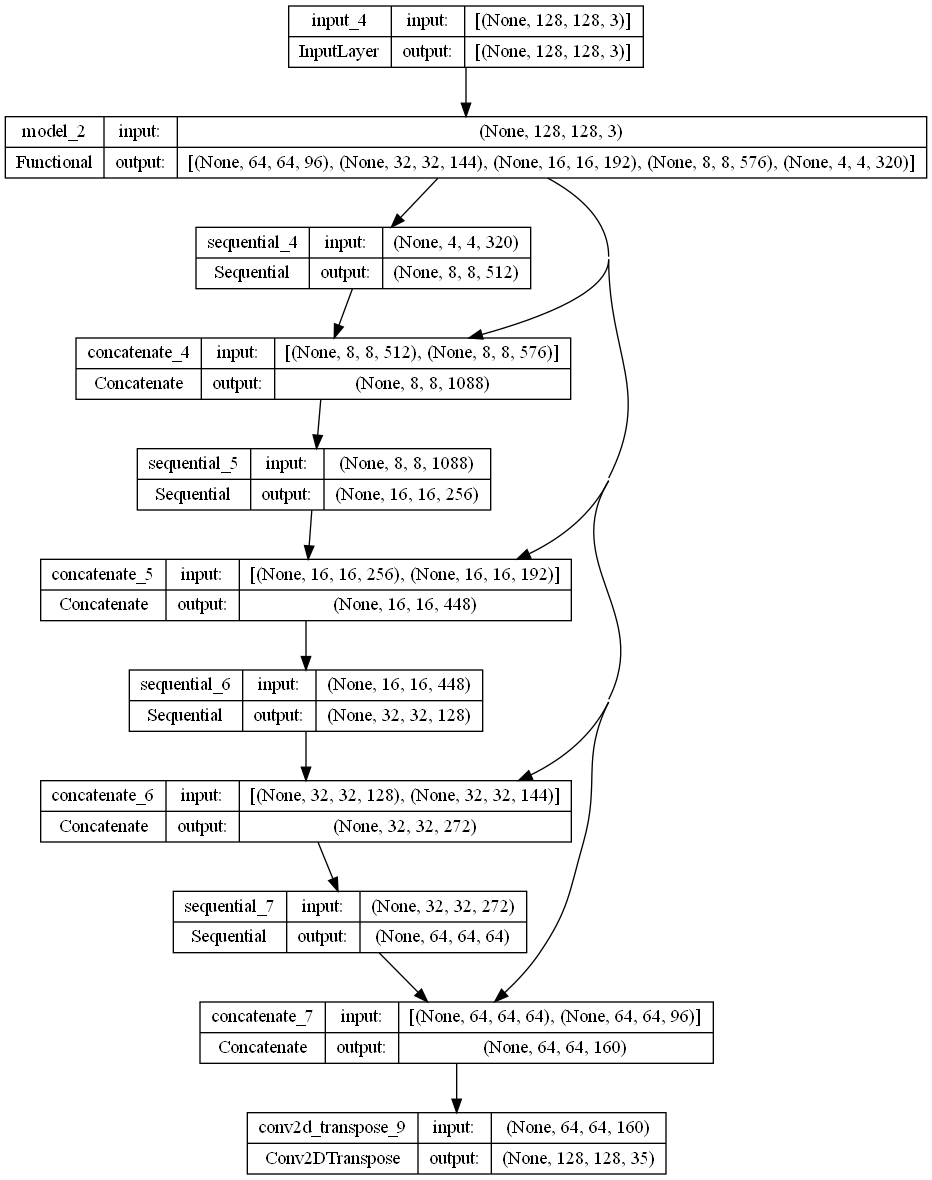
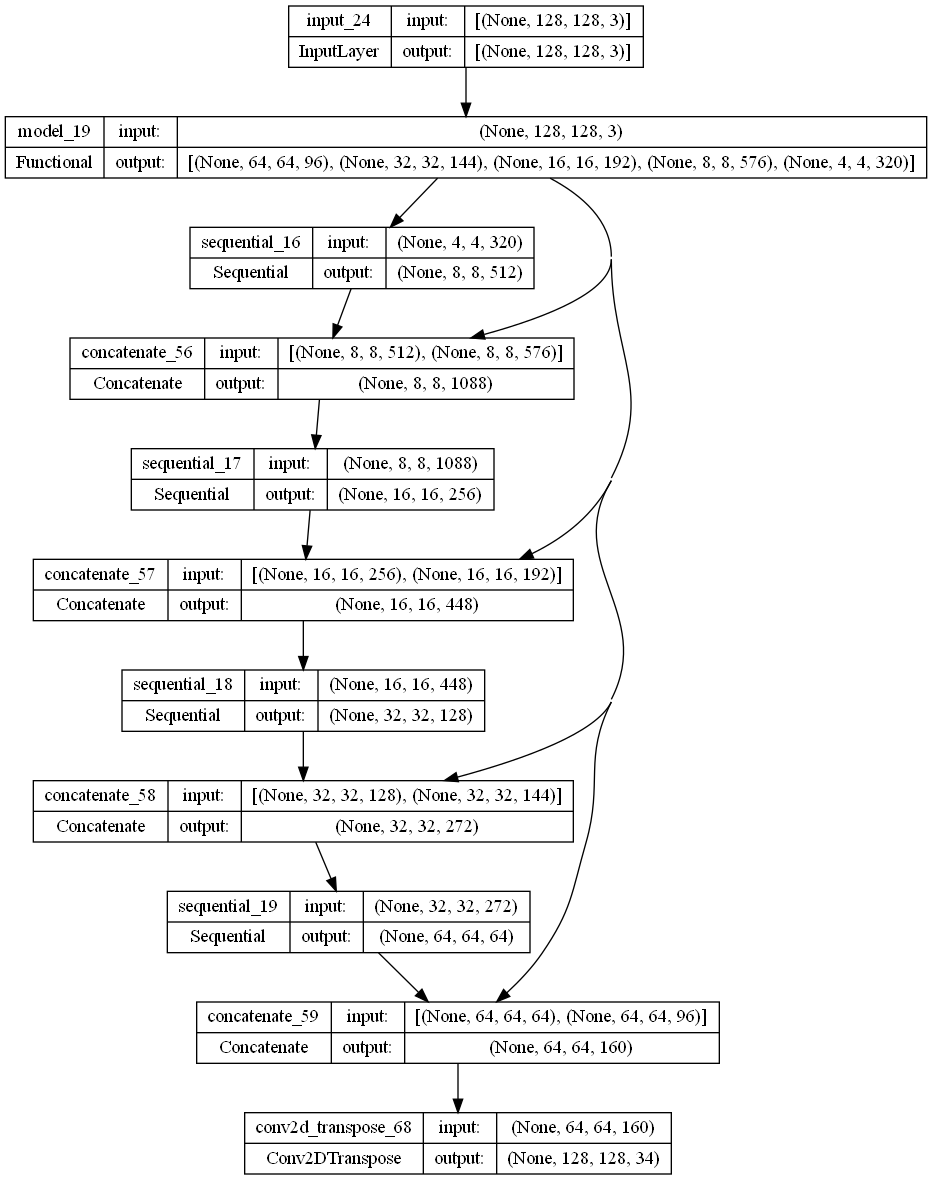
Fix U-Net model

diff --git a/cityscape_segmentation.py b/cityscape_segmentation.py
@@ -1,7 +1,7 @@
 # %%
 import tensorflow as tf
 from tensorflow import keras
-from keras.layers import RandomFlip, Input, Conv2DTranspose, concatenate, Layer, Dropout, Conv2D, MaxPooling2D
+from keras.layers import RandomFlip, Input, Conv2DTranspose, Concatenate, concatenate, Layer, Dropout, Conv2D, MaxPooling2D
 from keras.callbacks import TensorBoard, Callback, ReduceLROnPlateau, EarlyStopping
 from keras.utils import plot_model
 from sklearn.model_selection import train_test_split
@@ -237,7 +237,6 @@ for images, masks in train_batches.take(2):
 
 # # Define pretrained model
 # base_model = keras.applications.MobileNetV2(input_shape=INPUT_SHAPE, include_top=False)
-# plot_model(base_model, show_shapes=True, show_layer_names=True)
 
 # # Activation layer outputs from base model for concatenation
 # layer_names = [
@@ -263,7 +262,7 @@ for images, masks in train_batches.take(2):
 # ]
 
 # # Build U-Net
-# OUTPUT_CLASSES = len(labels)
+# OUTPUT_CLASSES = len(labels)-1
 
 # # Downsampling layer
 # inputs = Input(shape=INPUT_SHAPE)
@@ -359,7 +358,7 @@ model.compile(optimizer='adam', loss=loss, metrics='acc')
 
 # Model summary
 model.summary()
-plot_model(model, show_layer_names=True, show_shapes=True, )
+plot_model(model, show_layer_names=True, show_shapes=True)
 
 # %%
 # Create function for displaying prediction
